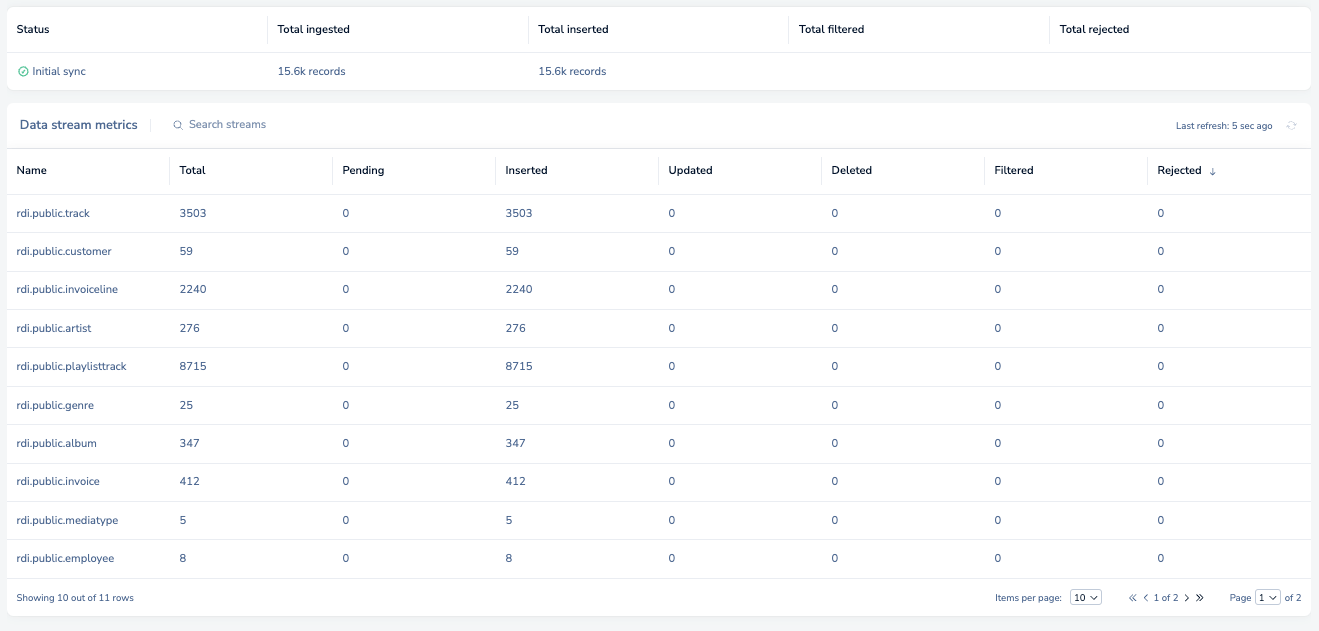
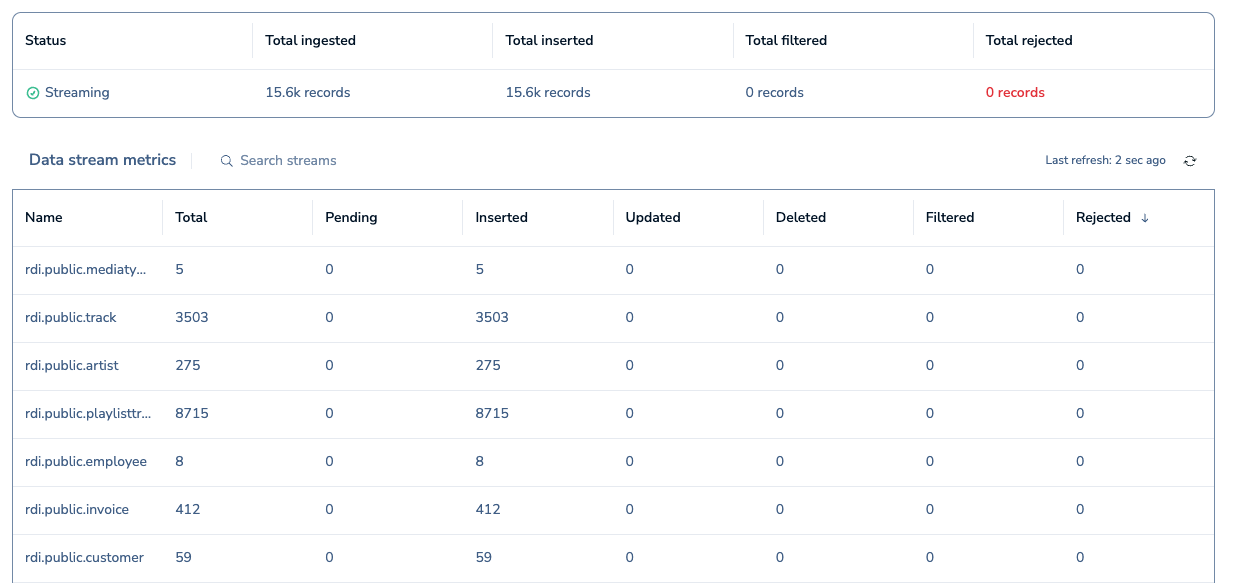
Fix image

diff --git a/content/operate/rc/databases/rdi/view-edit.md b/content/operate/rc/databases/rdi/view-edit.md
@@ -14,8 +14,6 @@ Use the **Data pipeline** tab in your database to view and edit your data pipeli
 
 The **Data pipeline** tab gives an overview of your data pipeline and lets you view your data stream metrics. 
 
-
-<!-- TODO: REPLACE SCREENSHOT -->
 {{<image filename="images/rc/rdi/rdi-status-metrics-tables.png" alt="The select source database type list." width=80% >}}
 
 The **Status** table shows statistics for the whole data pipeline: 
